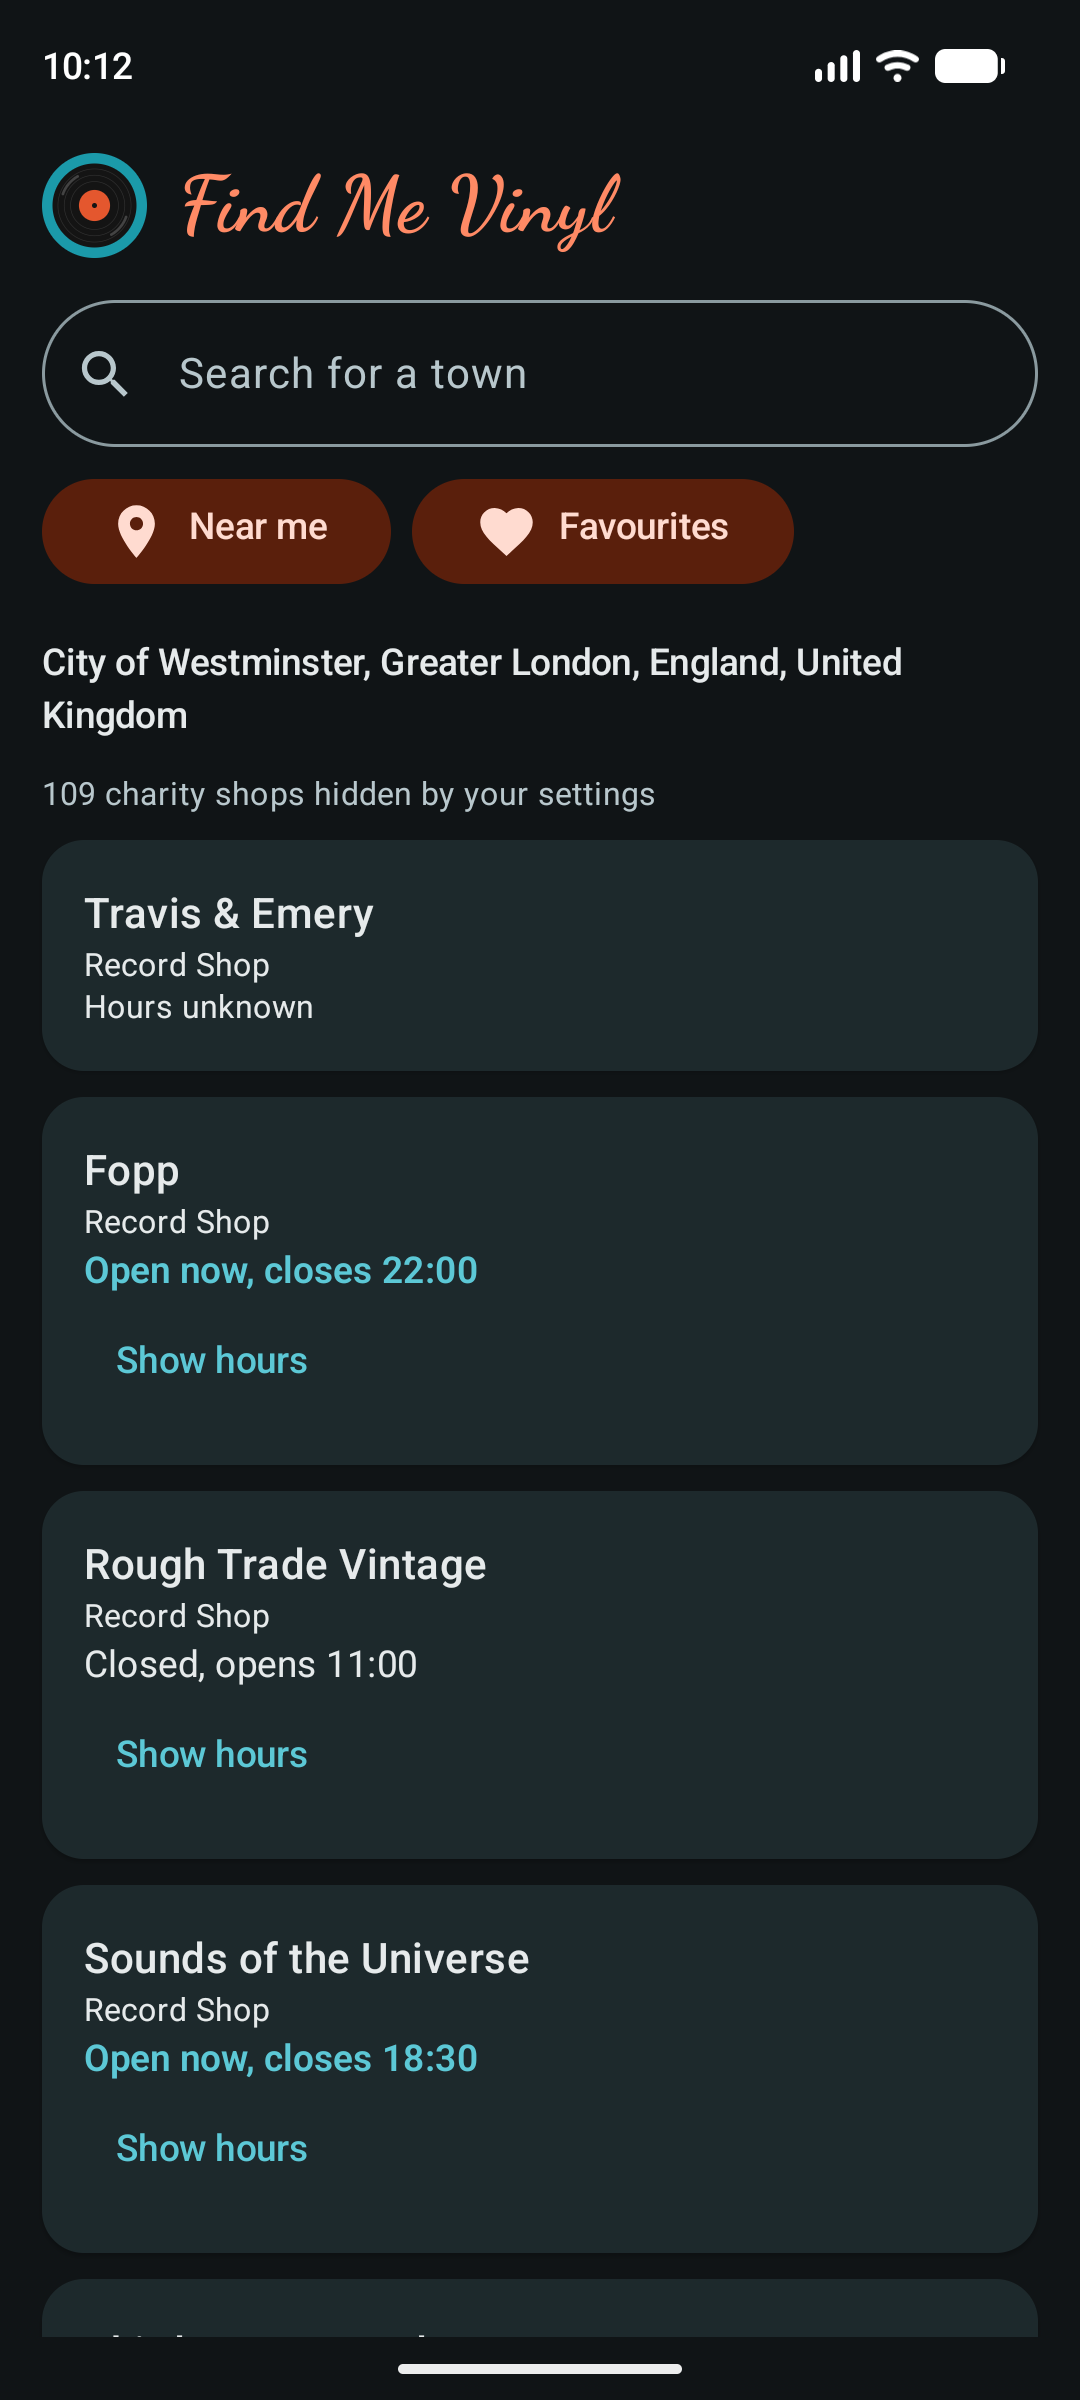
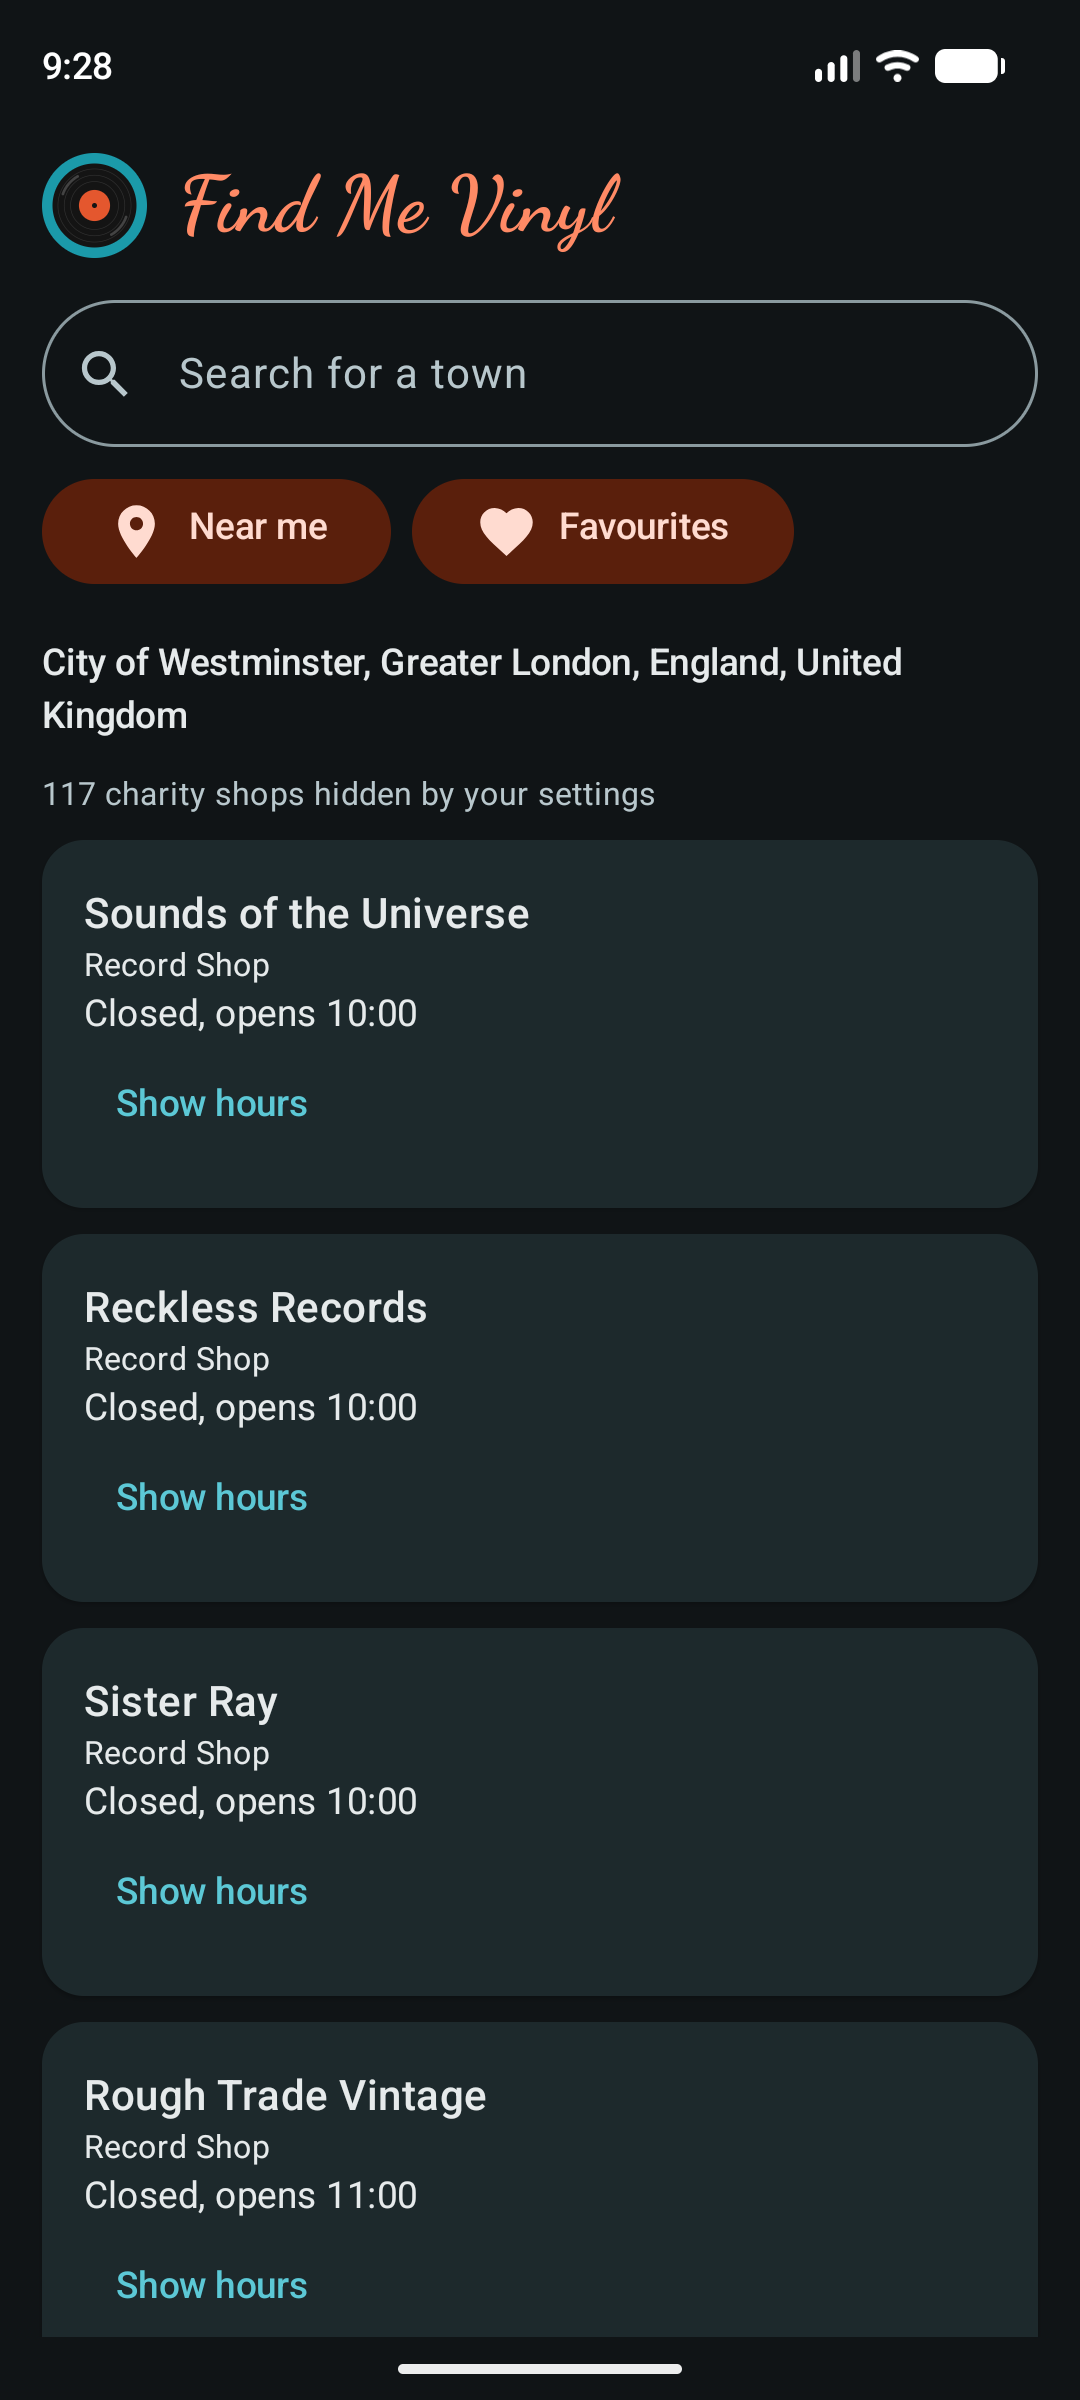
Review the README and retake the screenshots

diff --git a/README.md b/README.md
@@ -8,13 +8,13 @@ It is a hobby project. It has no accounts, no adverts and no server of its own. 
 
 <p>
   <img src="docs/screenshots/home.png" width="190" alt="The front screen with the logo and the Artists, Wants and Shops buttons">
-  <img src="docs/screenshots/artists.png" width="190" alt="The Artists page: a search field and the favourite artists A to Z, each with how many albums you own and want">
+  <img src="docs/screenshots/artists.png" width="190" alt="The Artists page: a search field, a link to add an album by barcode, and the favourite artists A to Z, each with how many albums you own and want, above the Various Artists and Soundtracks blocks">
   <img src="docs/screenshots/discography.png" width="190" alt="An artist's discography: owned albums at the top with the copies you own, one to a line, and a want for another format">
   <img src="docs/screenshots/album.png" width="190" alt="An album page with the cover, Owned and Want buttons, the copies you own with a note each, and the pressing details">
 </p>
 <p>
-  <img src="docs/screenshots/wants.png" width="190" alt="The Wants page: one block for each album you want, with the artist, the format wanted and buttons to move it; the top ten in colour and the next ten faded">
-  <img src="docs/screenshots/shops.png" width="190" alt="The Shops page: record shops near a position, nearest first, with whether each is open now">
+  <img src="docs/screenshots/wants.png" width="190" alt="The Wants page scrolled to where the top ten in colour give way to the next ten, faded: one block for each album you want, with the artist, the format wanted and buttons to move it">
+  <img src="docs/screenshots/shops.png" width="190" alt="The Shops page: record shops near a position, with whether each is open now and a button to show its hours">
   <img src="docs/screenshots/settings.png" width="190" alt="The Settings page with switches for what to hide">
 </p>
 
@@ -23,20 +23,20 @@ It is a hobby project. It has no accounts, no adverts and no server of its own. 
 - Search for an artist, with suggestions as you type (your favourites first), and see their whole discography, grouped into studio albums, compilations, soundtracks, live albums, EPs, singles and others, with a cover for each. Each row names the artist, and on a group's page it is the member the album is filed under, so you can see which are Nick Cave albums and which are Bad Seeds albums.
 - See which formats each album came out on (LP, 12", 7", CD, cassette, digital), and filter by one.
 - Mark albums as owned or wanted, or both: an owned copy that is worn out, or a CD you own and want on vinyl, can go on the want list too. Owned albums are teal and wanted ones are orange, and an album that is both stays teal with a Wanted label. A wanted album can be wanted on one format, such as the LP of a record you own on CD. The Wants page and the text you share say which, and the want goes away when you record that format as owned. The Group owned and Group wanted switches put those albums in sections at the top of an artist's discography, Owned first by default. With both on, an arrow on the lower heading moves it to the top. The app remembers the choice for each artist.
-- Open an album for its pressings, label and catalogue numbers, tracklist by side, genres and rating.
+- Open an album for its pressings, label and catalogue numbers, tracklist by side, genres and rating. On a compilation the page shows who is on each track, and Edit track artists lets you choose the artist of any track by searching (your favourites first, then MusicBrainz), or type a name MusicBrainz does not have. An artist you choose puts the album on that artist's page too, and your choices are kept in backups.
 - Add an owned album from its barcode: from the Artists page, photograph the barcode on the sleeve with the phone's camera app, or type the number under it. The photo is read on the phone and deleted straight after, and only the number is sent out. MusicBrainz is asked first. When it does not know the barcode, which is common for new releases and reissues, Discogs is asked, and the artist and album it names are looked up on MusicBrainz by name. If MusicBrainz has the artist but not that album, the album is added by hand under the artist. The app finds the album on MusicBrainz and shows who it is by, whether the artist is already a favourite or in a group, and whether you already own or want the album. You choose the format of your copy and add it. An album you already own gets another copy, and a want on that format is taken off the Wants list.
 - Add an album that MusicBrainz does not list, such as a bootleg, from an artist's page: a title, a year if you know it, the kind of release, whether it is a bootleg, a short description, and the tracklist if you want it, typed one track at a time. Each track can be renamed, moved, removed, and given an artist of its own, chosen from your favourites and MusicBrainz or typed in, which suits a compilation. An artist chosen for a track puts an album filed under Various Artists on that artist's page. It starts as owned, you can choose a cover image for it from your photos, you add its copies like any other album, and you can change or delete it later. It is kept in backups.
 - Tap the artist's name on an album's page to go back to the artist.
-- On an album you own, list the copies you have, each with a format and a note of its own, such as a CD that was part of your mother's collection, or two LPs with green and blue sleeves. You can add as many as you like, even on the same format. On the artist's page each copy has its own line under the album, such as "Owned on LP: Green cover", and a want for another format shows as "Wanted on CD". On a compilation, the album page shows who is on each track, and Edit track artists lets you choose the artist of any track by searching (your favourites first, then MusicBrainz), or type a name MusicBrainz does not have. An artist you choose puts the album on that artist's page too, and your choices are kept in backups. An album that only has bootleg releases on MusicBrainz is marked "Bootleg" under its formats. Taking an album off Owned removes its copies. Your copies are kept in backups. You can also choose which of an album's MusicBrainz pressings is yours ("This is my pressing"): the album page then opens on it, with its country, label and tracks, and marks it as yours in the list of pressings.
+- On an album you own, list the copies you have, each with a format and a note of its own, such as a CD that was part of your mother's collection, or two LPs with green and blue sleeves. You can add as many as you like, even on the same format. On the artist's page each copy has its own line under the album, such as "Owned on LP: Green cover", and a want for another format shows as "Wanted on CD". An album that only has bootleg releases on MusicBrainz is marked "Bootleg" under its formats. Taking an album off Owned removes its copies. Your copies are kept in backups. You can also choose which of an album's MusicBrainz pressings is yours ("This is my pressing"): the album page then opens on it, with its country, label and tracks, and marks it as yours in the list of pressings.
 - Your favourite artists are listed A to Z (a leading "The" does not count, so The Smiths is under S). In the list each artist is a block with their picture, their name, and how many albums you own and want ("4 owned, 3 wanted"). When there are many you can show them as a grid of pictures with the names on them instead, and the app remembers which you chose.
-- Keep a list of favourite artists, and a want list that is one list of albums, A to Z by artist and then release date to begin with. Move an album up or down, or send it to the top, and it stays where you put it while the rest stay A to Z around it. The top ten are in colour and the next ten faded, each with the format you want ("Big Country - The Crossing, Wanted on CD"), so you can tailor a short list. Share the want list as text, one numbered line for each album. Before sharing you can add a message ("It's my birthday soon, here are some ideas") and choose how many albums to send, such as the top 10 or top 20, so the list is not too long.
+- Keep a want list that is one list of albums, A to Z by artist and then release date to begin with. Move an album up or down, or send it to the top, and it stays where you put it while the rest stay A to Z around it. The top ten are in colour and the next ten faded, each with the format you want ("Big Country - The Crossing, Wanted on CD"), so you can tailor a short list. Share the want list as text, one numbered line for each album. Before sharing you can add a message ("It's my birthday soon, here are some ideas") and choose how many albums to send, such as the top 10 or top 20, so the list is not too long.
 - Add your own photo for an artist when the one from the web is poor or missing.
-- Each favourite artist and group is given the genre with the most votes on MusicBrainz, found in the background, one a second. If you disagree, choose another from the genres MusicBrainz lists for it or type your own. Your choice is kept for good and is in backups, and taking it away goes back to the suggestion. 
+- Each favourite artist and group is given the genre with the most votes on MusicBrainz, found in the background, one a second. If you disagree, choose another from the genres MusicBrainz lists for it or type your own. Your choice is kept for good and is in backups, and taking it away goes back to the suggestion.
 - Under your favourites on the Artists page, a Various Artists block and a Soundtracks block keep what has no artist of its own. Various Artists holds the compilations credited to it, such as the Now albums. Soundtracks holds every soundtrack you own or want, by whoever it is by, so a Madonna soundtrack on your want list is there as well as on her page. Each block has a picture you choose, like an artist's photo, and counts of what is owned and wanted. You can add an album to either by hand, or from its barcode, and the Wants list names these albums "Various Artists - Now 99". A Various Artists album you own or want is also listed at the bottom of the page of each artist on its tracklist, under "Various Artists Albums", as a streaming app's "Appears On" does. The artists on each tracklist are looked up once, in the background, after you add the album.
 - Join artists that belong together into a group under a name of your own, such as Nick Cave and Nick Cave & The Bad Seeds. From an artist's page, Join with another artist lets you search for the others and name the group, and the favourites then show the group in place of its artists. Splitting a group up puts everything back as it was. The want list and the text you share from it name each album's own artist, not the group, and typing in the artist search finds a group by the name of any of its artists. Opening a group shows the albums of all its artists together, with the same Group owned, Group wanted and format filters, and a photo of its own that you can change (it starts with the first artist's).
 - Find record shops, charity shops and second hand shops near you or in a town you type (towns are suggested as you type), with their opening hours and whether they are open now, taking public holidays into account. Tap a shop for its page: address, phone, website, email and the hours of every day of the week, with a button to open it on a map. Keep the shops you like as favourites, listed by town, to find them again without a search. Add a shop that the map does not have by sharing it from Google Maps into the app, or by typing it in. Opening hours can be typed in plain words, such as Mon-Sat 10-7, and a shop you added can be edited later. A shop added from a Google Maps link has a button to open its page in Google Maps, for the hours, photos and reviews.
 - Hide what you do not want to see: live albums, compilations, singles, particular formats, bootlegs, promos, releases with an unknown status, charity shops and second-hand shops.
-- Back up your data (artists, groups of artists, albums, photos, favourite shops and settings) to a zip file and restore it later, for example on a new phone.
+- Back up your data (artists, groups of artists, albums, copies, track artists, photos, favourite shops and settings) to a zip file and restore it later, for example on a new phone.
 
 ## Where the data comes from
 
@@ -44,7 +44,7 @@ The app talks to these public services. None needs an account or a key. They are
 
 | Service | What the app uses it for |
 | --- | --- |
-| [MusicBrainz](https://musicbrainz.org) | Artist search (the artist's genres too, when you choose one for it) (including the suggestions while you type: asked once typing pauses, after three letters, five artists, and kept until the app closes), discographies, the album a barcode belongs to (the number you type is sent), the formats, status, label and release date of each release, tracklists, genres, ratings, and the link to an artist's Wikidata item. It asks for about one request a second, and the app stays under that. Its User-Agent includes a contact address, which MusicBrainz asks for. |
+| [MusicBrainz](https://musicbrainz.org) | Artist search, including the suggestions while you type (asked once typing pauses, after three letters, five artists, and kept until the app closes), discographies, the album a barcode belongs to (the number you type is sent), the formats, status, label and release date of each release, tracklists with the artist of each track, genres (an artist's too, when you choose one for it), ratings, and the link to an artist's Wikidata item. It asks for about one request a second, and the app stays under that. Its User-Agent includes a contact address, which MusicBrainz asks for. |
 | [Discogs](https://www.discogs.com) | The artist, album, format and year of a release with a barcode, only when MusicBrainz does not know the barcode. Only the barcode number is sent, with the app's User-Agent. |
 | [Cover Art Archive](https://coverartarchive.org) | The cover of each album, by MusicBrainz id. |
 | [Wikidata](https://www.wikidata.org) and [Wikimedia Commons](https://commons.wikimedia.org) | The picture of an artist. MusicBrainz gives the Wikidata item, Wikidata gives the file name of the picture, and Commons serves it. The app never matches an artist to a picture by name. The photos are credited on the screens that show them. |
